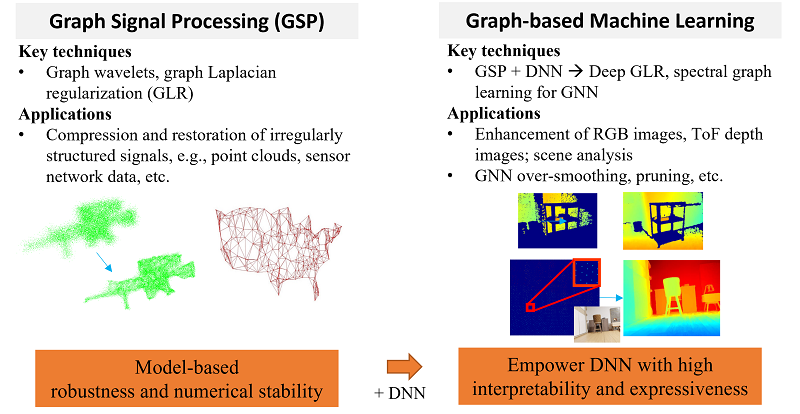
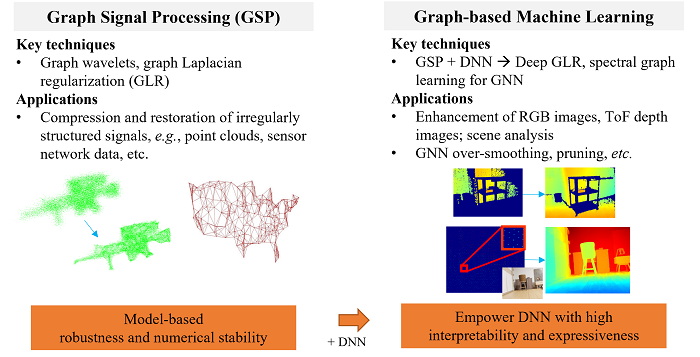
about

diff --git a/_pages/about.md b/_pages/about.md
@@ -17,13 +17,14 @@ I have collaborations with [Prof. Antonio Ortega](https://viterbi.usc.edu/direct
 
 Research Interests
 ======
-1. graph signal processing
+My research interests include graph signal processing, graph-based machine learning and their applications for the processing and analysis of structural data such as 2D/3D images, traffic data, etc., as summarized below. 
+![Research interest](/images/research-summary-resize.png)
+<!-- 1. graph signal processing
 1. graph-based machine learning
-1. 3D imaging
+1. 3D imaging -->
 <!-- and their applications for the processing and analysis of structural data such as 2D/3D images, traffic data, etc.  -->
 <!-- I have published 20 top international journal and conference papers in multimedia signal processing, including TIP, TSP, CVPR, and ECCV.  -->
 <!-- ![Research interest](/images/research-summary.png) -->
-
 
 Join us
 ======
@@ -31,6 +32,4 @@ We are looking for self-motivated PhD/master/undergraduate students. If you are 
 
 Contact
 ======
-Address: Tongji University, Jiading, Shanghai
-
 Email: zengjin AT tongji DOT edu DOT cn

diff --git a/_pages/publications.md b/_pages/publications.md
@@ -15,10 +15,6 @@ author_profile: true
   {% include archive-single.html %}
 {% endfor %} -->
 
-My research interests include graph signal processing, graph-based machine learning and their applications for the processing and analysis of structural data such as 2D/3D images, traffic data, etc., as summarized below. 
-![Research interest](/images/research-summary-resize.png)
-
-Full publication list is as follows.
 <br /> #: corresponding author, *: co-first author
 
 ## Book Chapter
